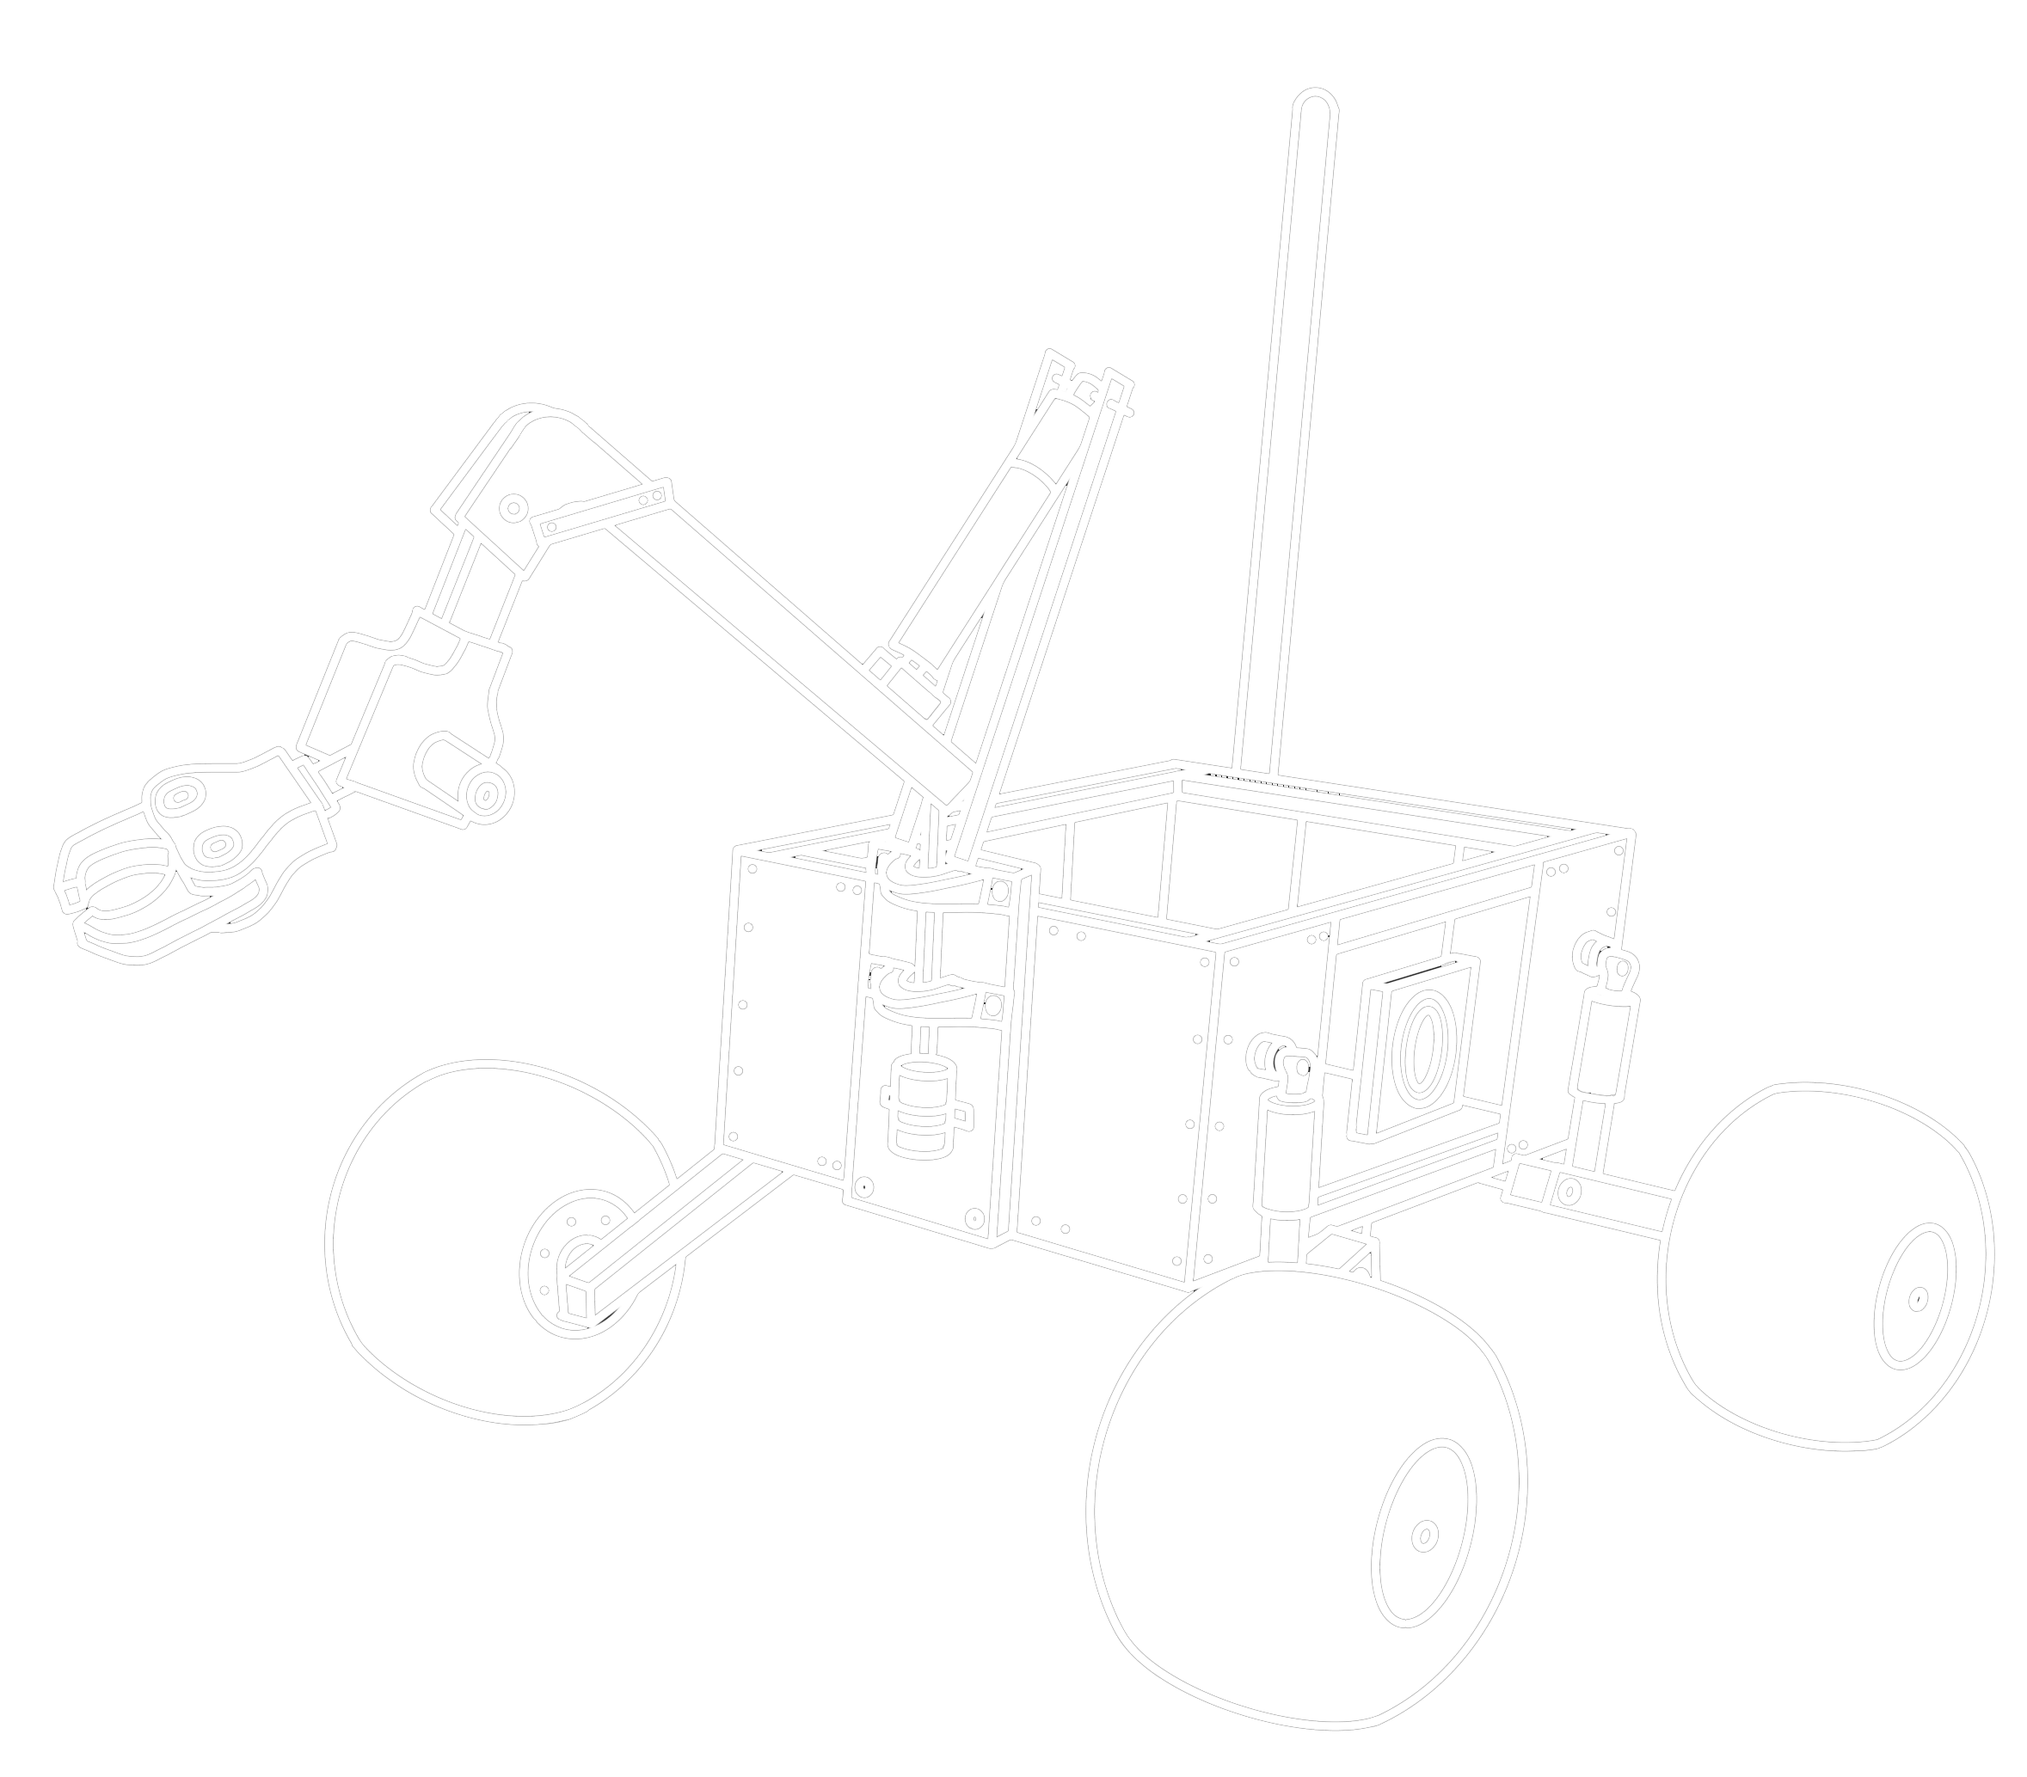
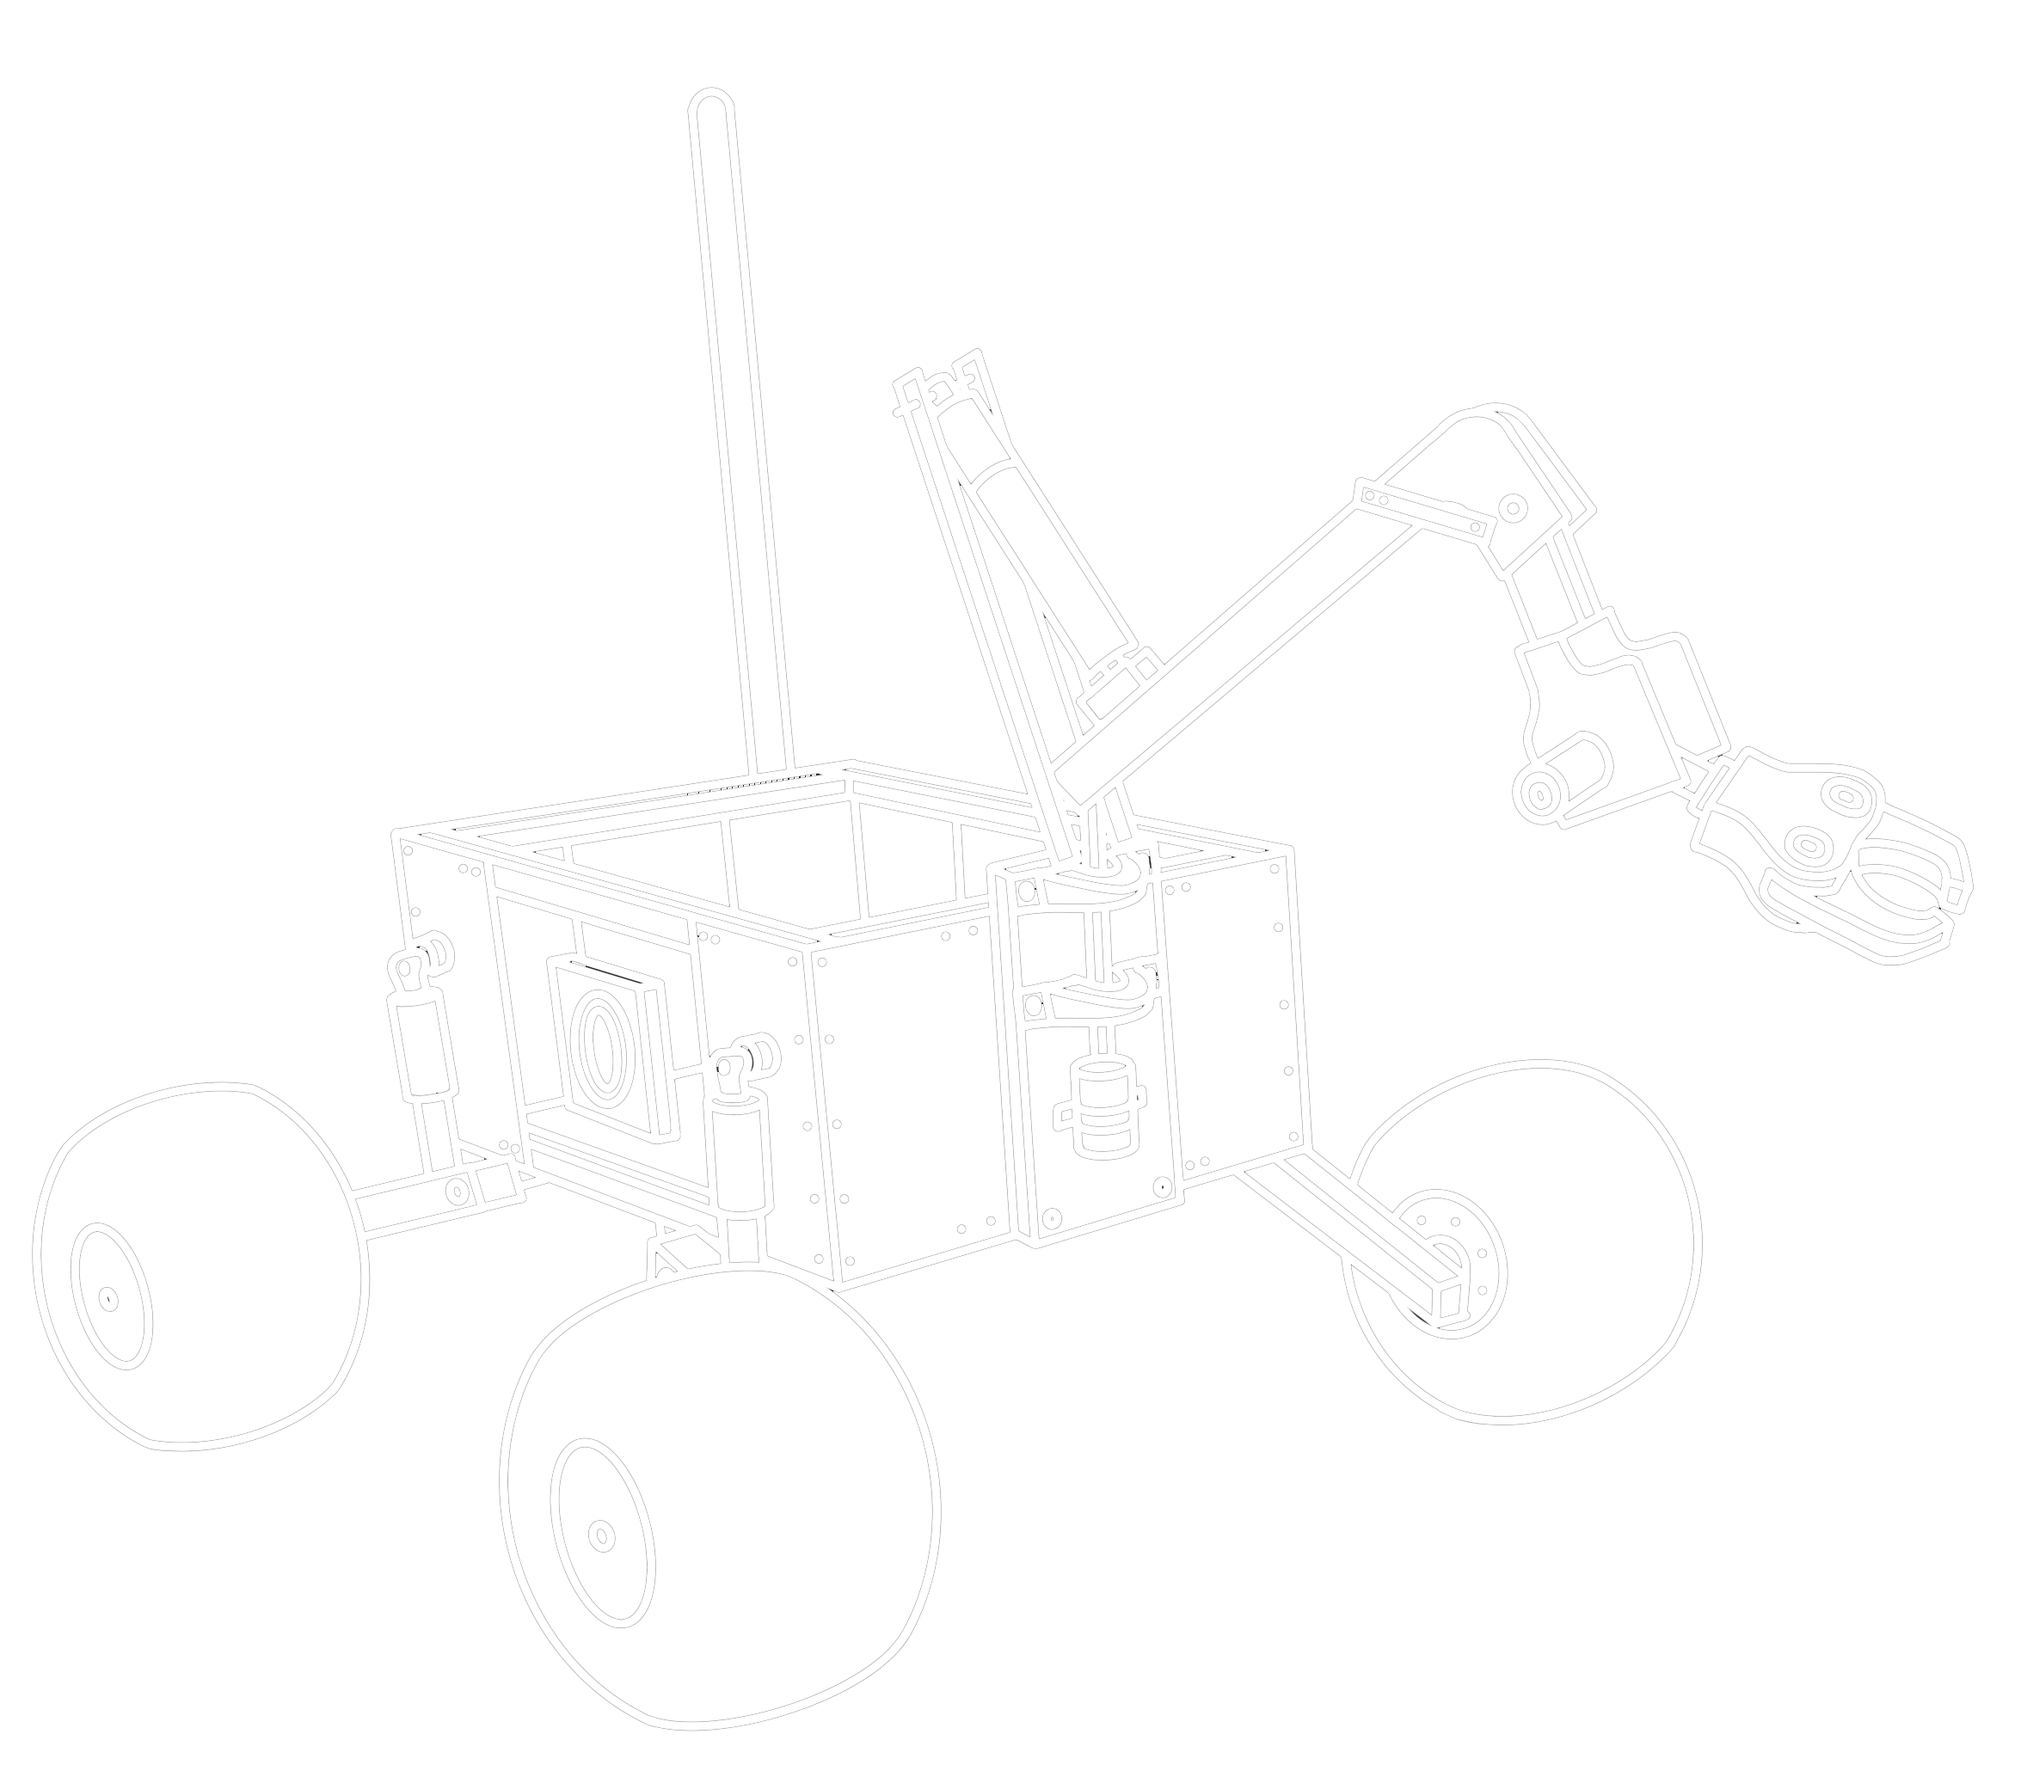
updated home page team image, added case to home page

diff --git a/src/pages/home.jsx b/src/pages/home.jsx
@@ -8,7 +8,7 @@ export default class SpearHomePage extends Component {
     return (
       <div className="page">
         <div className="img-container">
-          <img alt="some members of SPEAR with our rover, this was taken at our first competition" className="spear-home-main-image" src={require('../img/team.jpg')} />
+          <img alt="some members of SPEAR with our rover, this was taken at our second competition" className="spear-home-main-image" src={require('../img/team.jpg')} />
           <h1 className="centered">Space Exploration Alberta Robotics</h1>
         </div>
          <div className="ver cent mission">
@@ -23,6 +23,7 @@ export default class SpearHomePage extends Component {
             Engineering, Science, and Technology and Diversity in Engineering.
             </div>
             <a href="http://join.spaceualberta.ca/" className="Join-Button">Join SPEAR</a>
+            <img alt="lineart of our current rover iteration: CASE" className="case" src={require('../img/outline.png')}/>
          </div>
        </div>
     )

diff --git a/src/pages/home.css b/src/pages/home.css
@@ -32,7 +32,7 @@
     margin: 0;
     padding-left: 10%;
     padding-right: 10%;
-    padding-bottom: 10%;
+    padding-bottom: 5%;
     padding-top: 2%;
 }
 .mission div {
@@ -59,4 +59,7 @@ a.Join-Button {
 }
 a:hover, a:active.Join-Button{
     background-color: #9F412C;
+}
+.case{
+    width: 60%;
 }
